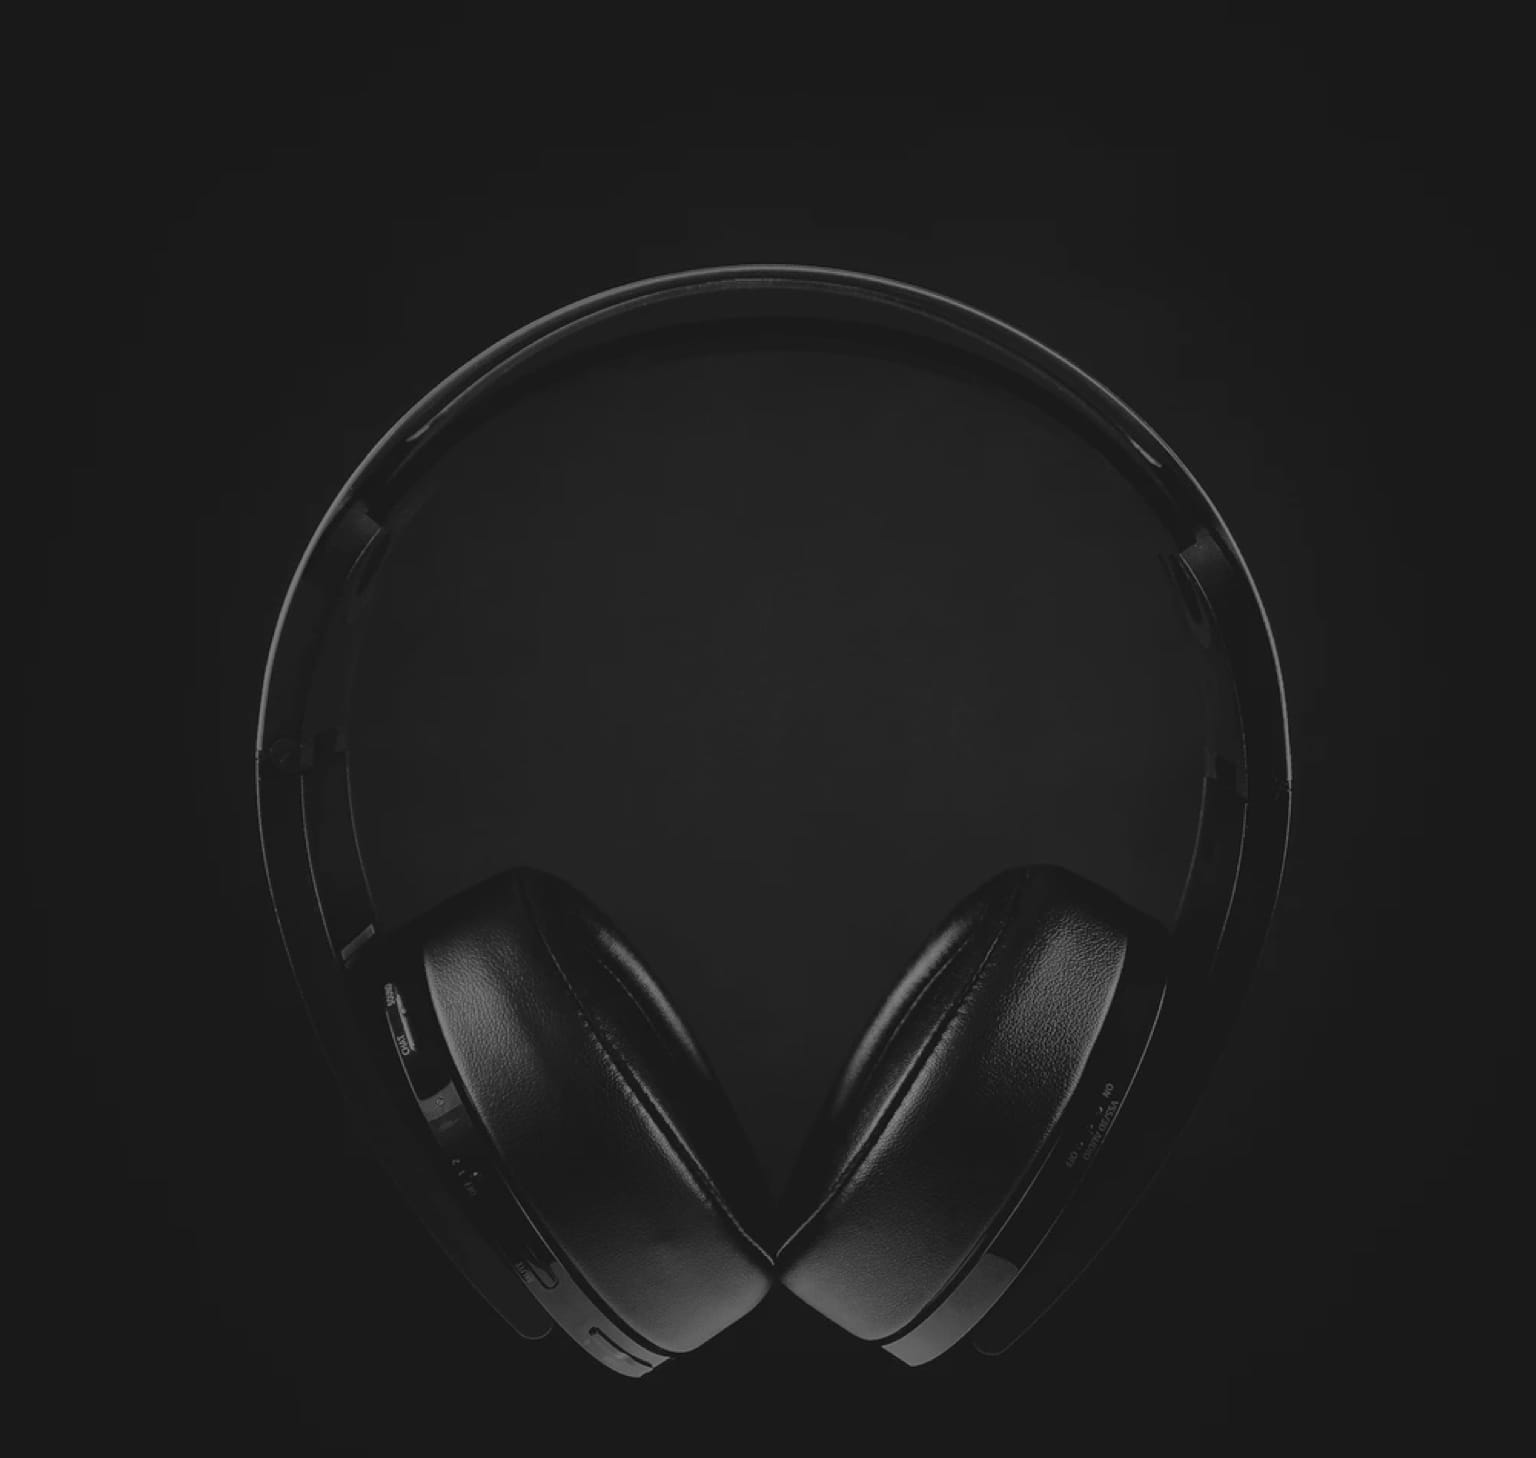
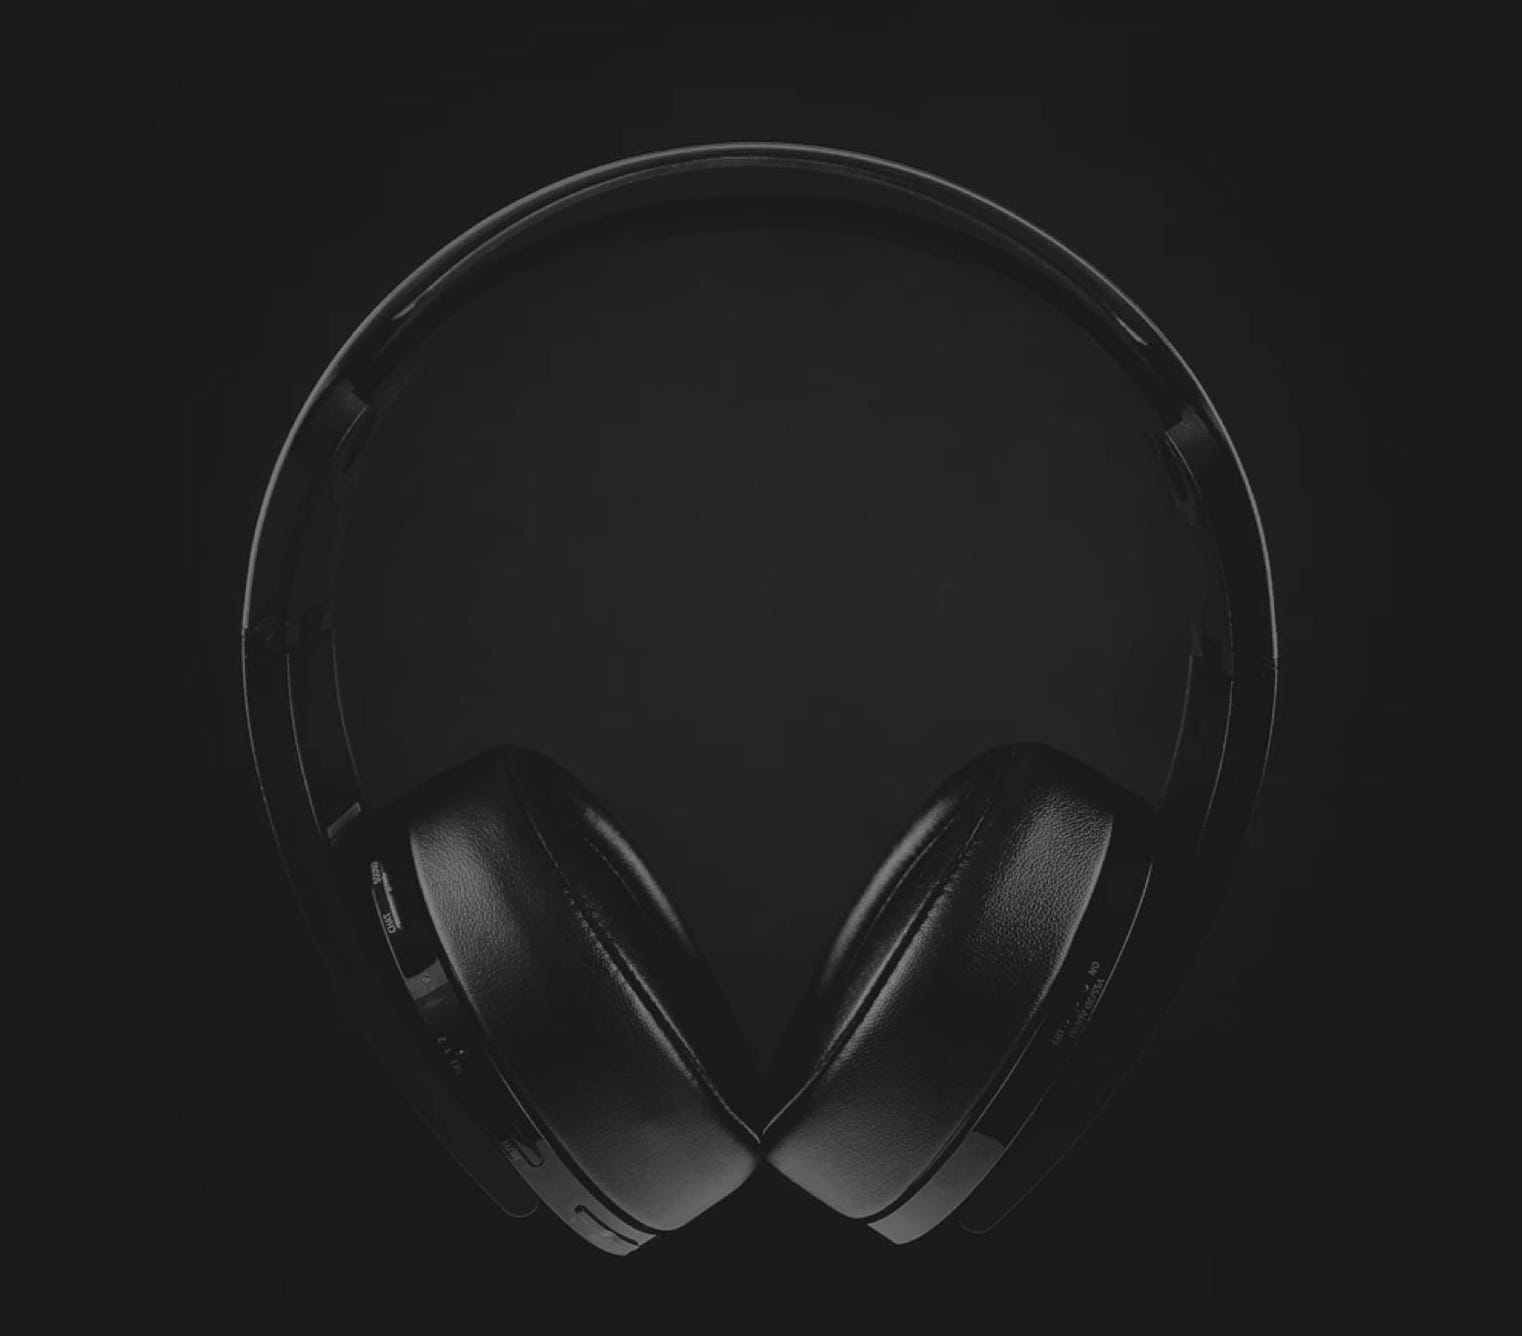
More home page styling for tablets

diff --git a/src/App.css b/src/App.css
@@ -366,7 +366,7 @@ footer svg:hover {
 }
 
 .grey-area {
-  background: url("./src/assets/home/desktop/image-speaker-zx7.jpg");
+  background: url("./src/assets/home/desktop/image-speaker-zx7.jpg") center/cover;;
   height: 20rem;
   padding: 0 9rem;
 }
@@ -925,8 +925,15 @@ input[type="radio"] {
 }
 
 @media screen and (max-width: 900px) {
+
+  header {
+    padding: 0
+  }
+
   .header-wrap {
     justify-content: flex-start;
+    margin: auto;
+    width: 90%;
   }
 
   header nav {
@@ -948,10 +955,27 @@ input[type="radio"] {
   .hero-area {
     background: radial-gradient(transparent, #0E0E0E 75%), url(/src/assets/home/tablet/image-header.jpg) center / cover;
     justify-content: center;
+    height: 45rem;
   }
 
   .home-product-card {
     text-align: center;
   }
+
+  .orange-area {
+    flex-direction: column;
+    justify-content: center;
+    gap: 2rem;
+    height: 50rem;
+  }
+
+  .orange-area img {
+    margin-bottom: 2rem;
+    width: 12rem;
+  }
+
+  /* .grey-area {
+    background: url("./src/assets/home/tablet/image-speaker-zx7.jpg");
+  } */
 
 }